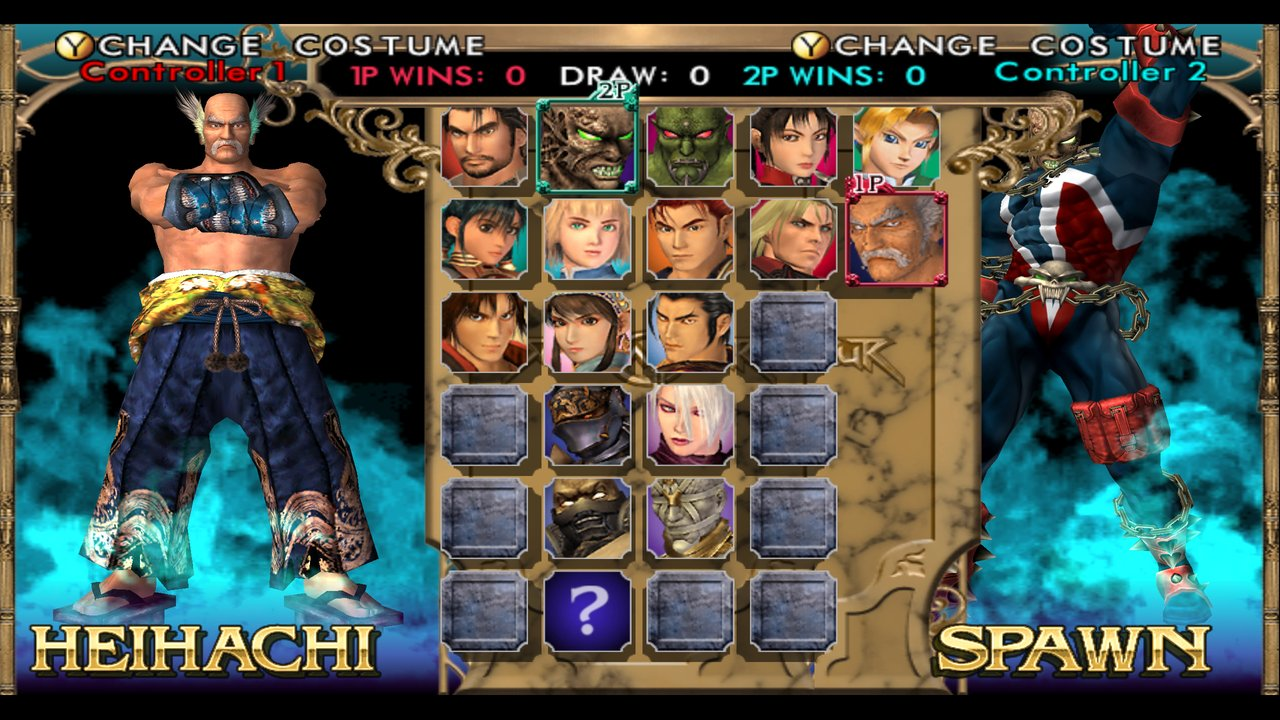
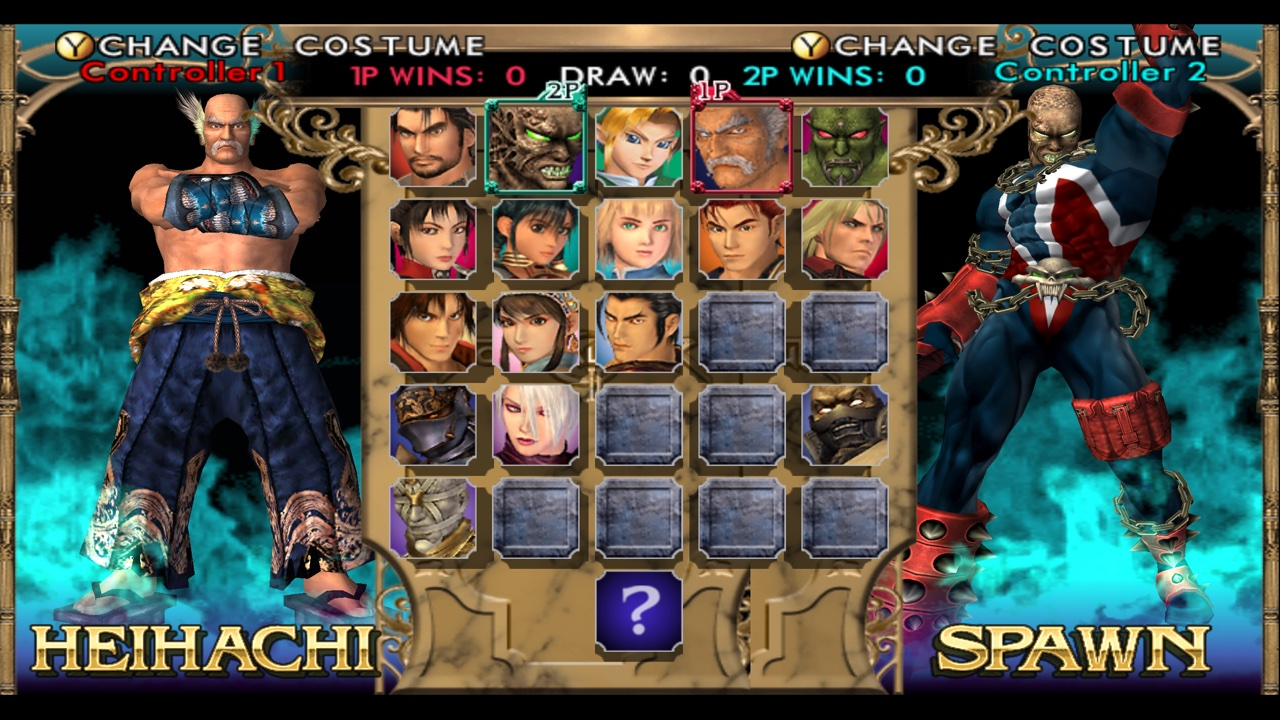
Character select: the grid in rows of five, Random centred below
With the guests, the select grid is laid out again in rows of five
(issue #6): the 25 characters in reading order, Link and Heihachi after
Spawn, fill five rows; Random keeps cell 26 and is drawn under the middle
column. A hook on the cursor's move (0x6B000) sends Down from a column's
lowest open cell, and Up from its highest, to Random, and from Random
into the middle column. README's two select pictures remade.

Claude-Session: https://claude.ai/code/session_0194hRTGHTFzC822nTXzCr4F

diff --git a/runtime/sc2_hooks.c b/runtime/sc2_hooks.c
@@ -22,6 +22,7 @@ extern void sub_0003BED0(void);
 extern void sub_000502A0(void);
 extern void sub_0002ABC0(void);
 extern void sub_0006A190(void);
+extern void sub_0006B000(void);
 extern void sub_000331B0(void);
 extern void sub_0002ED80(void);
 extern void sub_0002EC90(void);
@@ -209,11 +210,73 @@ static void sprite_draw(void)
 static void cell_place(void)
 {
     const uint32_t position = *recomp_memory_u32(recomp_runtime.registers.esp + 4u);
+    const uint32_t cell = *recomp_memory_u32(recomp_runtime.registers.esp + 8u);
     sub_0006A190();
     if (!sc2_guest_fifth_column()) return;
     float *f = (float *)recomp_memory(position, 4u), step;
     memcpy(&step, recomp_memory(0x0017774Cu, 4u), 4u);
     *f -= step * 0.5f;
+    /* (with the grid in rows of five, Random, cell 26 in the second column, stands alone under the middle one) */
+    if (cell == 26u && sc2_select_grid_balanced()) *f += step;
+}
+
+/* 0x6B000(player, pressed), a select cursor's move (thiscall: the cursor's cell at +8, the cells it may take +4 to
+   +6, live while +0x14). Up and Down go five cells (a column), Left and Right one (a row), each wrapping and passing
+   over empty and locked cells. With the grid in rows of five (sc2_guest.cpp, BalanceGrid), Random (cell 26) stands
+   alone under the middle column: Down from the lowest character a column has, or Up from the highest, goes to it,
+   and from it Up and Down go into the middle column, as on the screen. The cell changes through 0x6B380 (the cells'
+   highlights with it), and the original then runs without the vertical press (Left and Right, the cursor's place,
+   and its return, by which the caller sounds the move). */
+enum { CELL_RANDOM = 26, PAD_UP = 0x2000u, PAD_DOWN = 0x1000u };
+
+static bool cell_open(int cell)
+{
+    const uint32_t at = *recomp_memory_u32(0x003CA00Cu) + 36u * (uint32_t)cell;
+    const int16_t character = *(const int16_t *)recomp_memory(at, 2u);
+    const uint32_t check = *recomp_memory_u32(at + 4u);
+    if (character == -1) return false;
+    if (!check) return true;
+    const RecompRegisters saved = recomp_runtime.registers;
+    const uint32_t args[2] = {(uint32_t)(int32_t)character, 0u};
+    kernel_call_guest(check, args, 2u);
+    const bool open = (recomp_runtime.registers.eax & 0xffu) != 0u;
+    recomp_runtime.registers = saved;
+    return open;
+}
+
+/* The first open cell from `cell` on in steps of `step` while in the five rows, or -1 */
+static int open_in_column(int cell, int step)
+{
+    for (; cell >= 0 && cell < 25; cell += step)
+        if (cell_open(cell)) return cell;
+    return -1;
+}
+
+static void cursor_move(void)
+{
+    const uint32_t esp = recomp_runtime.registers.esp, cursor = recomp_runtime.registers.ecx;
+    const uint32_t player = *recomp_memory_u32(esp + 4u), pressed = *recomp_memory_u32(esp + 8u);
+    const int16_t *c = (const int16_t *)recomp_memory(cursor + 4u, 0x12u);   /* +4 first, +6 last, +8 cell, +0x14 live */
+    if (!sc2_select_grid_balanced() || !c[8] || c[0] != 0 || c[1] < 29 || !(pressed & (PAD_UP | PAD_DOWN))) {
+        sub_0006B000();
+        return;
+    }
+    const int cell = c[2];
+    int to = -1;
+    if (pressed & PAD_UP)
+        to = cell == CELL_RANDOM ? open_in_column(22, -5) : open_in_column(cell - 5, -5) < 0 ? CELL_RANDOM : -1;
+    else
+        to = cell == CELL_RANDOM ? open_in_column(2, 5) : open_in_column(cell + 5, 5) < 0 ? CELL_RANDOM : -1;
+    if (to < 0 || to == cell) {
+        sub_0006B000();
+        return;
+    }
+    const RecompRegisters saved = recomp_runtime.registers;
+    const uint32_t args[2] = {player, (uint32_t)to};
+    kernel_call_guest(0x0006B380u, args, 2u);   /* (thiscall: ECX the cursor, as on entry) */
+    recomp_runtime.registers = saved;
+    *recomp_memory_u32(esp + 8u) = pressed & ~(uint32_t)(PAD_UP | PAD_DOWN);
+    sub_0006B000();
 }
 
 uint32_t sc2_net_seed;
@@ -464,6 +527,7 @@ RecompFunction recomp_sc2_hooks_lookup_manual(uint32_t address)
     case 0x000502a0u: return scene_switch;
     case 0x0002abc0u: return sprite_draw;
     case 0x0006a190u: return cell_place;
+    case 0x0006b000u: return cursor_move;
     case 0x000566f0u: return weapon_item;
     case 0x000c4940u: return play_counted;
     case 0x00036a70u: return roster_place;

diff --git a/runtime/sc2_guest.cpp b/runtime/sc2_guest.cpp
@@ -42,6 +42,7 @@ enum class Guest { Spawn, Link, Heihachi };
 Guest g_guest = Guest::Spawn;
 bool g_roster_link = false;   /* Link as character 27 (ApplyGuestRoster) */
 bool g_roster_column = false; /* a guest in the grid's fifth column */
+bool g_grid_balanced = false; /* the grid laid out in rows of five (BalanceGrid) */
 int g_hires_pictures = 20;    /* the Art Gallery's Hi-Res pictures (sc2_guest_hires_pictures) */
 bool g_guest_loaded[2];       /* Link, Heihachi in the guests' file (sc2_guest_loaded) */
 bool g_profile_item[2];       /* ... with their profile items, 48 and 49 (sc2_guest_profile_item) */
@@ -179,6 +180,48 @@ static void ApplyGallery(bool link, bool heihachi)
     }
 }
 
+/* The grid in rows of five (issue #6). The guests are first put in the fifth column (cells 4 and 9); here every
+   character is laid out again in reading order, five to a row, the guests after Spawn: 25 characters fill five
+   rows. Random keeps cell 26 (the program names it there in several places), alone in the sixth row; it is drawn
+   under the middle column and the cursor reaches it from the bottom of any column (sc2_hooks.c, cell_place and
+   cursor_move). Each character's cell (0x17A7C8) follows; a character the grid does not show (the IDs that pointed
+   at the empty cell 19) points at cell 29, empty in every layout. */
+static void BalanceGrid()
+{
+    constexpr int kCells = 30, kRandom = 26, kNowhere = 29;
+    uint8_t cells[kCells][36];
+    std::memcpy(cells, recomp_memory(kGrid, sizeof cells), sizeof cells);
+    auto character = [&](int cell) { int16_t c; std::memcpy(&c, cells[cell], 2); return int(c); };
+    std::vector<int> order, guests;
+    for (int cell = 0; cell < kCells; ++cell) {
+        const int c = character(cell);
+        if (cell == kRandom || c < 0) continue;
+        (c == 27 || c == 28 ? guests : order).push_back(cell);
+    }
+    for (size_t at = 0; at < order.size(); ++at) {
+        if (character(order[at]) != kSpawn) continue;
+        order.insert(order.begin() + long(at + 1), guests.begin(), guests.end());
+        guests.clear();
+        break;
+    }
+    order.insert(order.end(), guests.begin(), guests.end());
+    if (order.size() > size_t(kRandom - 1)) return;   /* (more than five rows: as it was) */
+
+    uint8_t laid[kCells][36] = {};
+    for (int cell = 0; cell < kCells; ++cell) {
+        const int16_t none = -1;
+        std::memcpy(laid[cell], &none, 2);
+    }
+    std::memcpy(laid[kRandom], cells[kRandom], 36);
+    for (int id = 0; id <= 32; ++id) Put<uint8_t>(kCellOf + uint32_t(id), uint8_t(kNowhere));   /* (IDs 0-32) */
+    for (size_t at = 0; at < order.size(); ++at) {
+        std::memcpy(laid[at], cells[order[at]], 36);
+        Put<uint8_t>(kCellOf + uint32_t(character(order[at])), uint8_t(at));
+    }
+    std::memcpy(recomp_memory(kGrid, sizeof laid), laid, sizeof laid);
+    g_grid_balanced = true;
+}
+
 bool ApplyGuestRoster(const char *path)
 {
     std::FILE *f = std::fopen(path, "rb");
@@ -263,6 +306,7 @@ bool ApplyGuestRoster(const char *path)
         std::fprintf(stderr, "recomp sc2: character %d from the guests' file (block %d, cell %d)\n",
                      guest.character, guest.block, guest.cell);
     }
+    if (g_roster_column) BalanceGrid();
     ApplyGallery(!profiles[0].empty(), !profiles[1].empty());   /* (Link, Heihachi) */
     /* Their profiles, items of their own: the two the game leaves empty (48, 49), as every character's profile item
        is (kind 3, the character's picture 156 + its ID; the unlock's picture at /2/297 + the item, built from the
@@ -294,6 +338,11 @@ extern "C" int sc2_guest_loaded(uint32_t character)
 extern "C" int sc2_guest_profile_item(uint32_t character)
 {
     return (character == 27u || character == 28u) && sc2::g_profile_item[character - 27u] ? int(48u + character - 27u) : -1;
+}
+
+extern "C" int sc2_select_grid_balanced(void)
+{
+    return sc2::g_grid_balanced;
 }
 
 extern "C" int sc2_guest_fifth_column(void)

diff --git a/runtime/sc2_guest.h b/runtime/sc2_guest.h
@@ -41,6 +41,8 @@ int sc2_guest_loaded(uint32_t character);
 int sc2_guest_profile_item(uint32_t character);
 /* Nonzero when a guest stands in the select grid's fifth column. */
 int sc2_guest_fifth_column(void);
+/* Nonzero when the select grid is laid out in rows of five, Random alone in the sixth (sc2_guest.cpp, BalanceGrid). */
+int sc2_select_grid_balanced(void);
 
 /* The Art Gallery's Hi-Res pictures: 20, or more with the guests' (sc2_guest.cpp, ApplyGallery). */
 int sc2_guest_hires_pictures(void);

diff --git a/docs/guests.md b/docs/guests.md
@@ -280,9 +280,26 @@ of these tables:
 | 0x1A07F0 | allowed in each mode |
 | 0x17A7C8 | grid cell |
 
-The guests go in the grid's empty fifth column: Link in cell 4, Heihachi in cell
-9. Their rows in the 24-character roster index (0x19CA20) are left alone, so the
+The grid (0x17A390) is 5 columns of 6 cells of 36 bytes; the Xbox fills four
+columns, Random in cell 26. The guests first go in the empty fifth column (Link
+in cell 4, Heihachi in cell 9), then the grid is laid out again in rows of five
+(sc2_guest.cpp, `BalanceGrid`): every character in reading order, the guests
+after Spawn, 25 characters in five full rows. Random keeps cell 26, which the
+program names in several places (0x688E0, 0x6B000, 0x6B380, 0x6B530); it is
+drawn under the middle column (`cell_place`). Each character's cell (0x17A7C8)
+follows; IDs the grid does not show point at cell 29, empty in every layout.
+Their rows in the 24-character roster index (0x19CA20) are left alone, so the
 save layout does not change.
+
+The cursor's move is 0x6B000(player, pressed), the cursor's vtable entry +0x20
+(vtable 0x17AF70; the cell at +8, the cells it may take +4 to +6, live while
++0x14): Up and Down go five cells, Left and Right one, each wrapping in its
+column or row and passing over empty cells and locked ones (the cell's check
+routine at +4 says no). `cursor_move` (sc2_hooks.c) sends Down from a column's
+lowest open cell, and Up from its highest, to Random, and from Random Up and
+Down into the middle column; it sets the cell through 0x6B380(player, cell),
+which moves the cells' highlights, and the original runs on without the
+vertical press (its return, the new cell, is how the caller sounds the move).
 
 As its own character, Link gets his own profile and the GameCube's weapon-bone
 case (0xd, 9, 3, 9, 9, 9, 0xd, 0xd). The shield is then on his arm and the

diff --git a/CHANGELOG.md b/CHANGELOG.md
@@ -4,6 +4,9 @@
 
 - **Character select centred with the guests**: the grid, which the guests' fifth column made half a column
   wider on the right, is centred again, clear of player 2's model.
+- **Character select in rows of five** ([#6](https://github.com/tmcleroy/soulcalibur2-recomp/issues/6)): with the
+  guests, the 25 characters fill five rows of five, Link and Heihachi beside Spawn, and Random sits alone under the
+  middle column. Down from the bottom of any column, or Up from the top row, goes to Random.
 
 ## 0.1.0-beta.2
 
